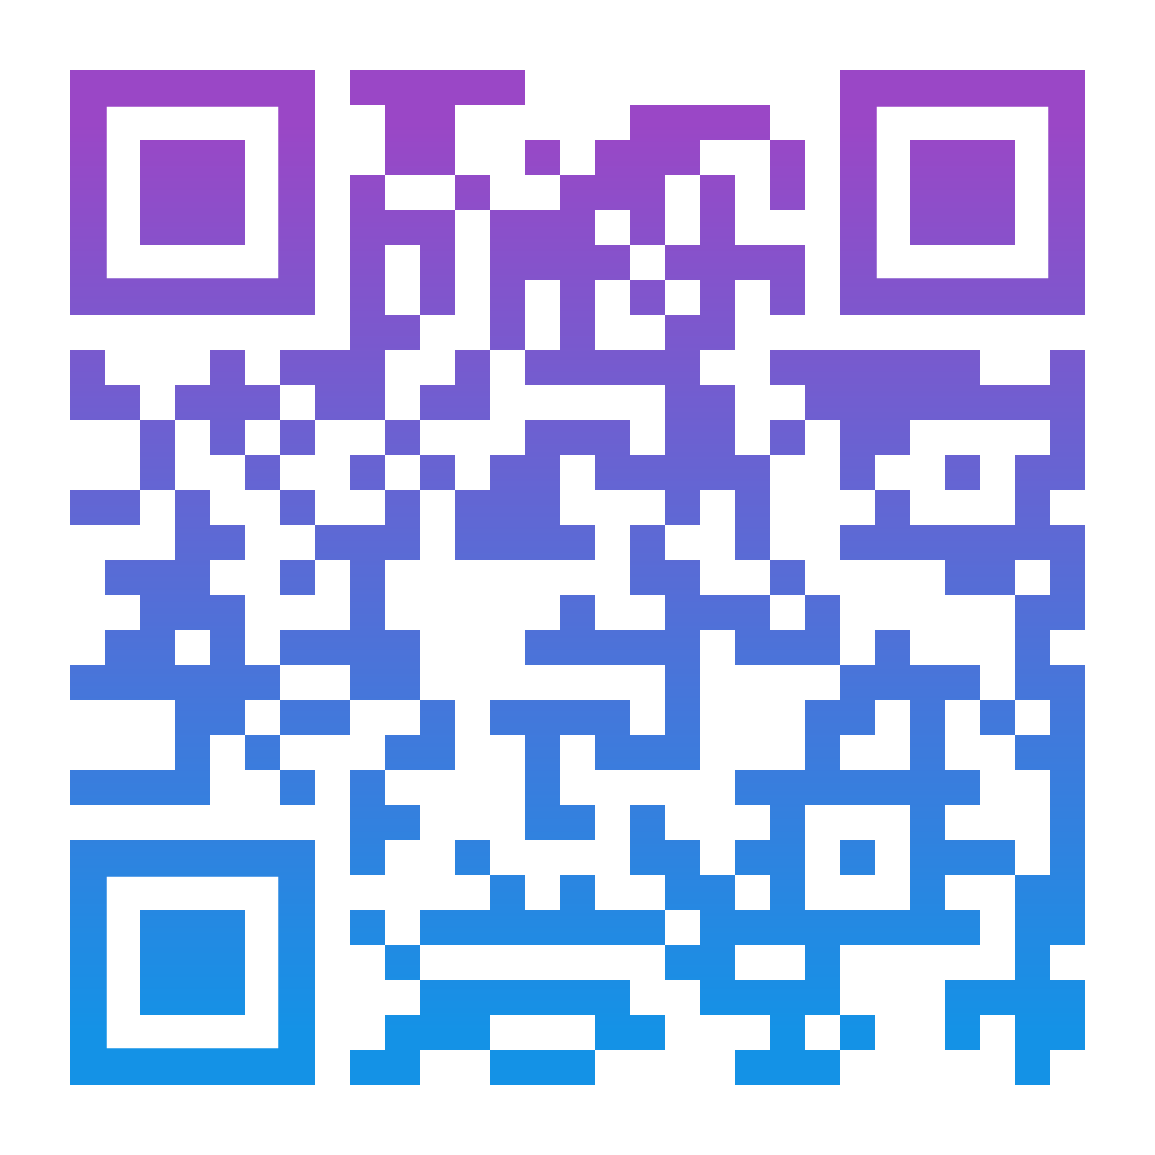
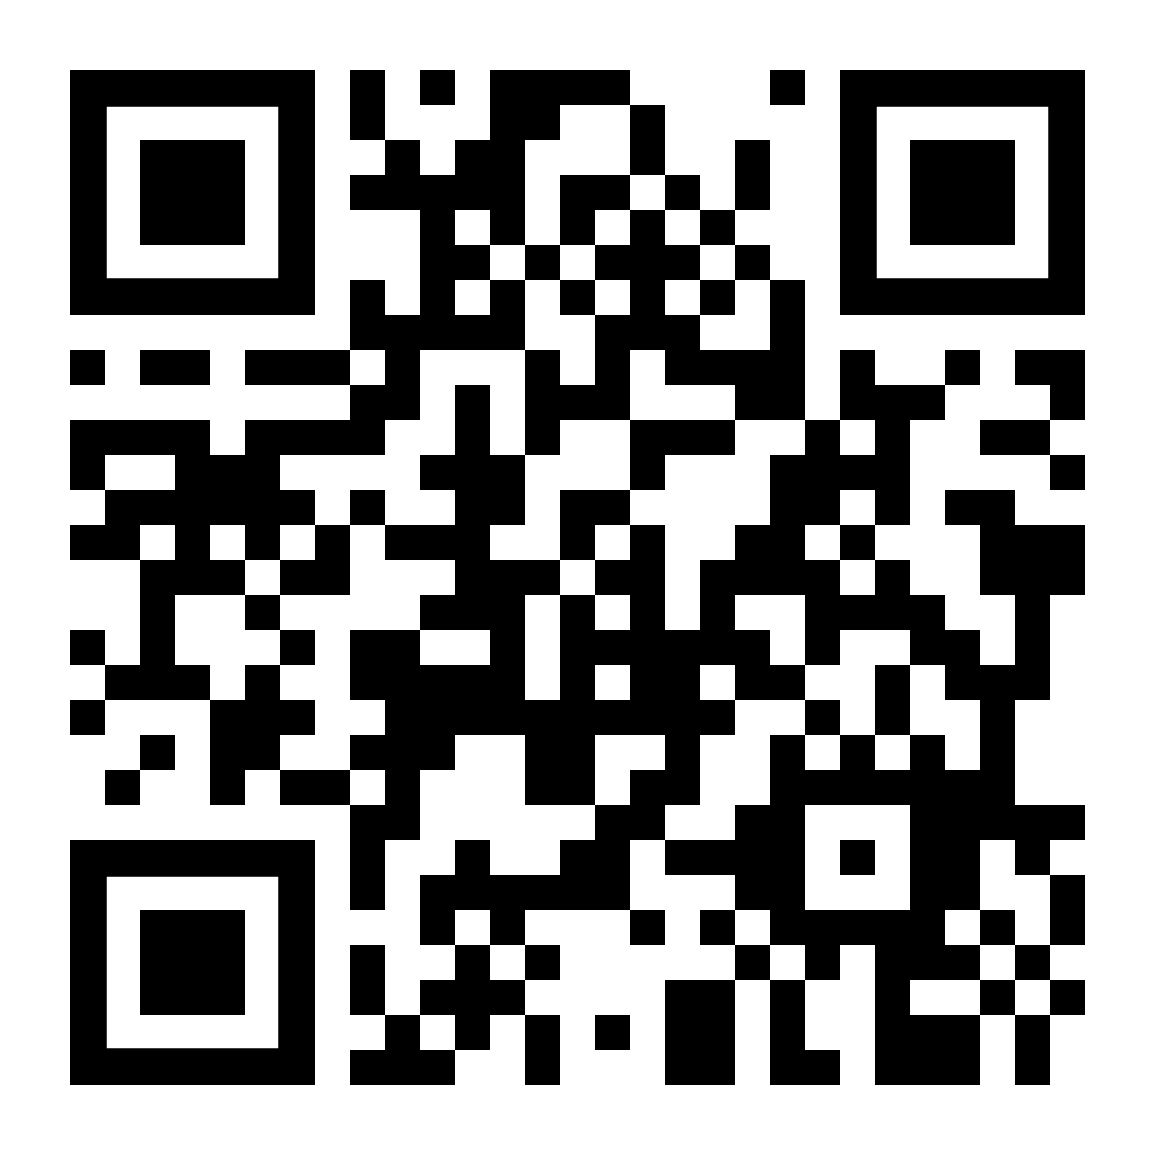
epist 2 slides up

diff --git a/FS1005_4.html b/FS1005_4.html
@@ -6,7 +6,7 @@
 
 	<title>Food Technology, Culture & Ethics 1</title>
 
-	<meta name="description" content="Protein Fractionation">
+	<meta name="description" content="Epistemology II">
 	<meta name="author" content="Shane Crowley">
 
 	<meta name="apple-mobile-web-app-capable" content="yes" />
@@ -67,7 +67,7 @@
 				<h3>There are no slides associated with this lecture. . .</h3>
 				<p> Link to <b>video</b> below:
 					<br>
-					<a href="https://youtu.be/0cShurcmqxQ">👉<i>https://youtu.be/0cShurcmqxQ</i></a>
+					<a href="https://youtu.be/8Y7pIRztLJ4">👉<i>https://youtu.be/8Y7pIRztLJ4</i></a>
 				</p>
 
 				<img title="Scan me with your phone!" src="img/qr_fs1005_4yt.png" alt="if you don't see a QR code click the link" style="height: 340px; margin: 0 auto 4rem auto; background: transparent;" class="qr_code">
@@ -93,8 +93,8 @@
 			Reveal.configure({ pdfSeparateFragments: false });
 			Reveal.initialize({
 				// for gh set controls to true and toggle chalkboard.js to true also
-				controls: false,
-				progress: false,
+				controls: true,
+				progress: true,
 				history: true,
 				center: true,
 				slideNumber: 'c',
@@ -160,12 +160,12 @@
 						title: 'References',
 						icon: '<i class="fa fa-external-link">',
 						content:
-						'<h1>NA</h2>'
+						'<h1>There are no references associated with this lecture.</h2>'
 					},
 					{
 						title: 'About',
 						icon: '<i class="fa fa-info">',
-						content: '<p>NA</p>'
+						content: '<p>Food science students often begin their studies with courses in general sciences, like physics and chemistry. It is not always clear to these students how the concepts they are studying are linked with food research. In the video associated with this lecture I try to give a set of examples of how a small number of these concepts can be related to the study of food.</p>'
 
 					}
 					]

diff --git a/index.md b/index.md
@@ -18,7 +18,7 @@ Lecture#2: [Ontology II](http://edibotopic.github.io/lecture-slides/FS1005_2.htm
 
 Lecture#3: [Epistemology I](http://edibotopic.github.io/lecture-slides/FS1005_3.html)
 
-<!-- Lecture#4: [Epistemology II](http://edibotopic.github.io/lecture-slides/FS1005_4.html) -->
+Lecture#4: [Epistemology II](http://edibotopic.github.io/lecture-slides/FS1005_4.html)
 
 <!-- Lecture#5: [Epistemology III](http://edibotopic.github.io/lecture-slides/FS1005_5.html) -->
 
